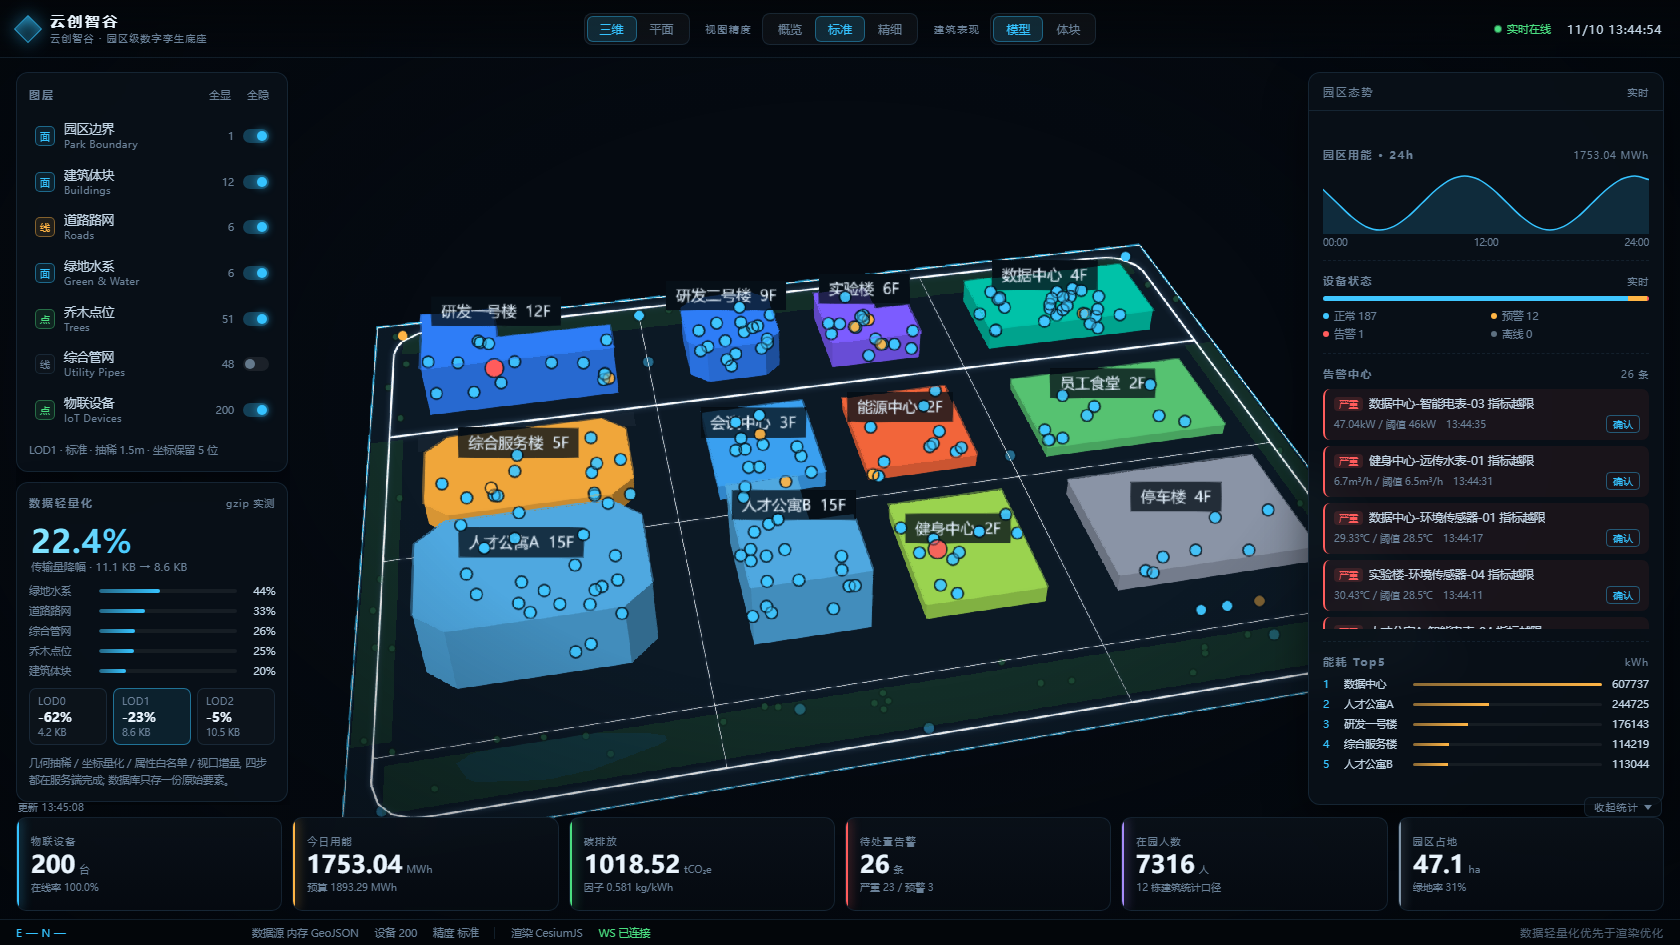
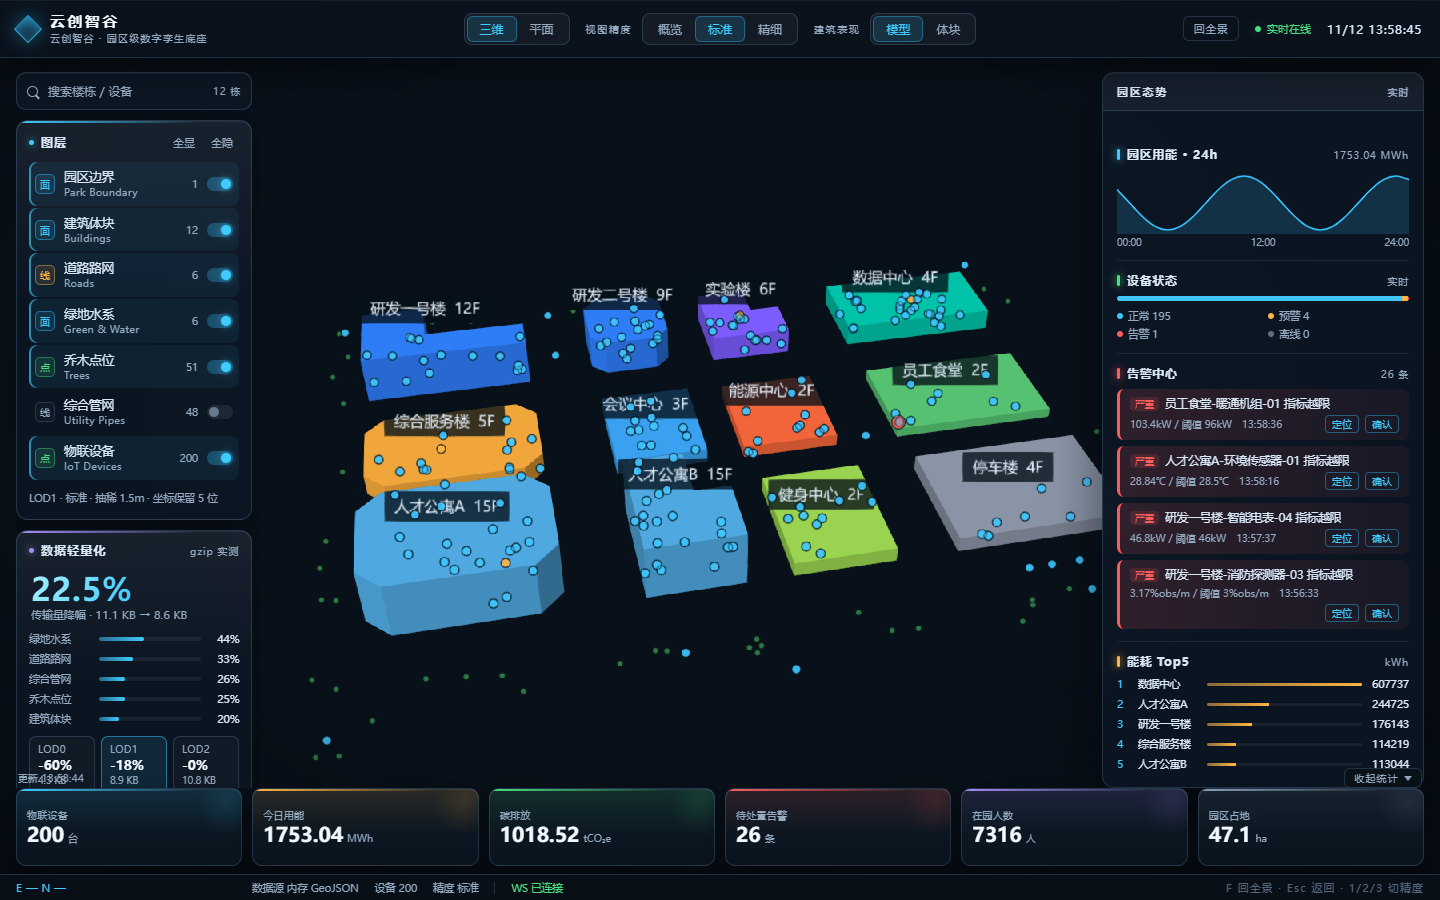
docs: 补充 MIT 许可证、界面配图与性能说明
- 新增 LICENSE (MIT)

- README 增加 CI/许可/版本徽章、设备详情与手机视图配图、性能与质量小节、手机轻量视图适配说明

- 按当前界面重出 docs/screenshot*.png

diff --git a/README.md b/README.md
@@ -1,9 +1,17 @@
 # 云创智谷 · 园区级数字孪生底座
 
+[![CI](https://github.com/dhonor/park-digital-twin/actions/workflows/ci.yml/badge.svg)](https://github.com/dhonor/park-digital-twin/actions/workflows/ci.yml)
+[![License: MIT](https://img.shields.io/badge/license-MIT-blue.svg)](LICENSE)
+[![Python](https://img.shields.io/badge/python-3.11+-blue.svg)](backend/requirements.txt)
+[![Node](https://img.shields.io/badge/node-20+-green.svg)](frontend/package.json)
+
 一个可直接运行的园区级（0.47 km²）数字孪生最小闭环：**CesiumJS 三维场景 + FastAPI/PostGIS 轻量数据服务 + WebSocket 实时遥测**。
 含 12 栋建筑、200 台物联设备、48 段综合管网的可复现演示数据。
 
 ![驾驶舱](docs/screenshot.png)
+
+> 三维驾驶舱：左栏检索与图层，中间场景与实时点位，右栏态势、告警处置与楼栋/设备详情，底部六项 KPI。
+> 页面为深色驾驶舱配色，画布 / 面板 / 卡内分组分四级明度台阶，模块靠顶部色条与语义色标区分。
 
 ---
 
@@ -153,6 +161,12 @@ npm run lint; npm run format:check; npm run build
 | 过渡 | 视图切换、图层重载、详情拉取均有加载态：地图级遮罩（顶栏保持可操作）+ 右侧面板局部遮罩 |
 | 适配 | 1366 笔记本 / 1920 与 4K 大屏 / 触屏一体机：分档字号与面板宽度、触屏加大点击区并隐藏 hover 浮标、所有滚动区统一细滚动条 |
 
+| 设备详情 | 手机轻量视图 |
+| --- | --- |
+| ![设备详情](docs/screenshot-device.png) | ![手机视图](docs/screenshot-mobile.png) |
+
+左：选中设备后叠加 Three.js 高模，指标、量程、反控（二次确认）集中在一栏。右：手机端不加载三维引擎，只保留 KPI、设备状态、告警处置与楼栋设备清单。
+
 深链：`/?building=B01` 落到指定楼栋，`/?mode=2d` 进平面视图，`/?lod=0` 指定视图精度，`/?shell=vector` 回到矢量体块，`/?floor=4` 直接剖切到第 4 层，可组合（例如 `/?building=B01&floor=4`）。
 
 ### 多端适配策略
@@ -162,6 +176,7 @@ npm run lint; npm run format:check; npm run build
 | 小屏 PC（≤1440 / 高度 ≤800） | KPI 单行压缩、隐藏次要文案、面板收窄、左右面板下边距让位 |
 | 大屏（≥1920 / ≥2560） | 面板加宽、KPI 与标签字号上调，避免远距离看不清 |
 | 触屏一体机（`any-pointer: coarse`） | 开关/按钮/滑杆放大到 ≥32px 触控区、隐藏 hover 浮标、列表 `touch-action: pan-y` |
+| 手机（≤760px / 省流量 / 低内存） | 不下载三维引擎（约 4.8 MB 脚本），改走轻量摘要视图：KPI、设备状态、告警处置、楼栋设备清单；页脚可手动加载三维 |
 | 任意设备 | 滚动条统一为 6px 细样式（含右侧分层面积/设备/告警列表），`overscroll-behavior: contain` 防止滚动穿透 |
 
 ---
@@ -223,3 +238,16 @@ park-digital-twin/
 - 遥测是模拟器（状态机 + 抖动），生产替换为 MQTT 接入；对外接口已按生产形态设计。
 - 楼栋目前是拉伸体块。要真实外立面时，走倾斜摄影 → 3D Tiles，引擎不用换。
 - 要素量级到 5 万以上、或需要按视锥流式加载时，再引入矢量瓦片 / 3D Tiles。
+
+## 性能与质量
+
+| 项 | 现状 |
+| --- | --- |
+| 首屏 | HTML 内联骨架，三维引擎按需加载；入口 185 KB（gzip 60 KB），Cesium 运行时不进首屏关键路径 |
+| 传输 | 后端 GZip 中间件（`/assets` 一年 immutable、`/tiles` 1 小时、`index.html` no-cache） |
+| 手机端 | Lighthouse 移动端（4G + 4× CPU 降速）Performance **86~91**，LCP 1.8 s，传输 72 KiB |
+| 质量 | 后端 pytest 25 passed（无库）/ 29 passed（PostGIS）；前端 ESLint + Prettier + `tsc --noEmit` 进 CI |
+
+## 许可
+
+[MIT](LICENSE)。演示数据为虚构园区，可自由替换为真实业务数据；三维外壳瓦片可整体换成倾斜摄影成果。
